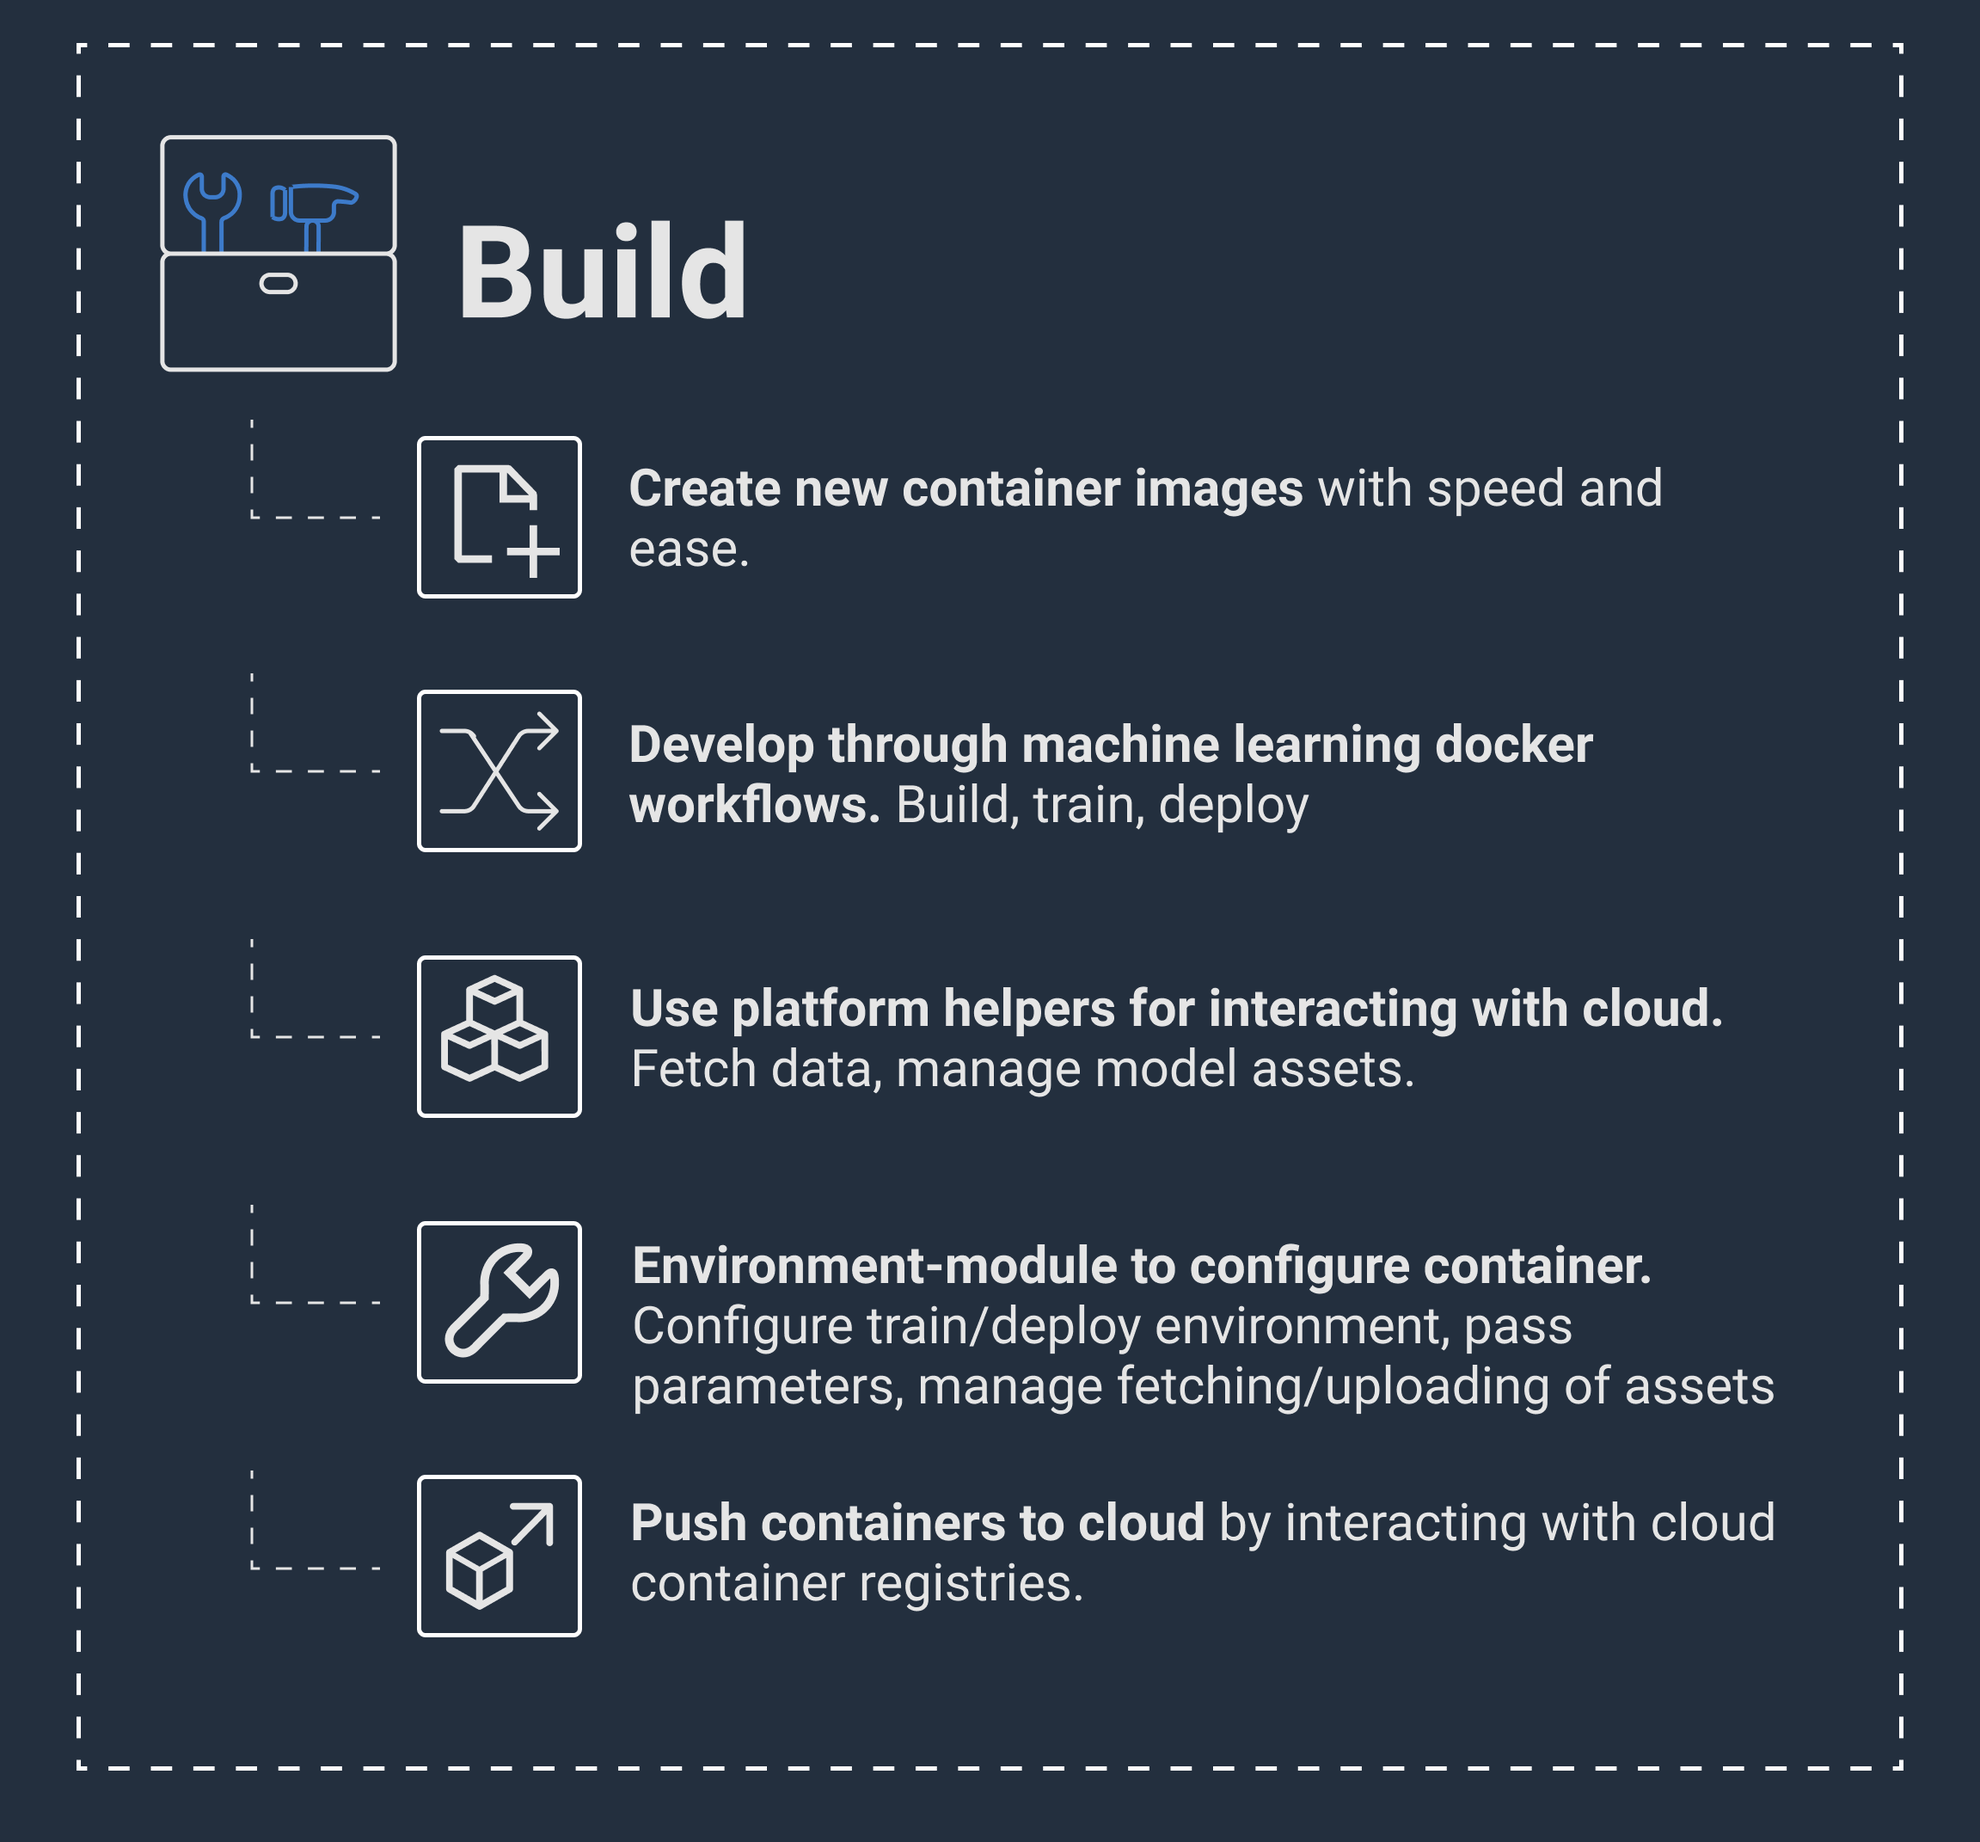
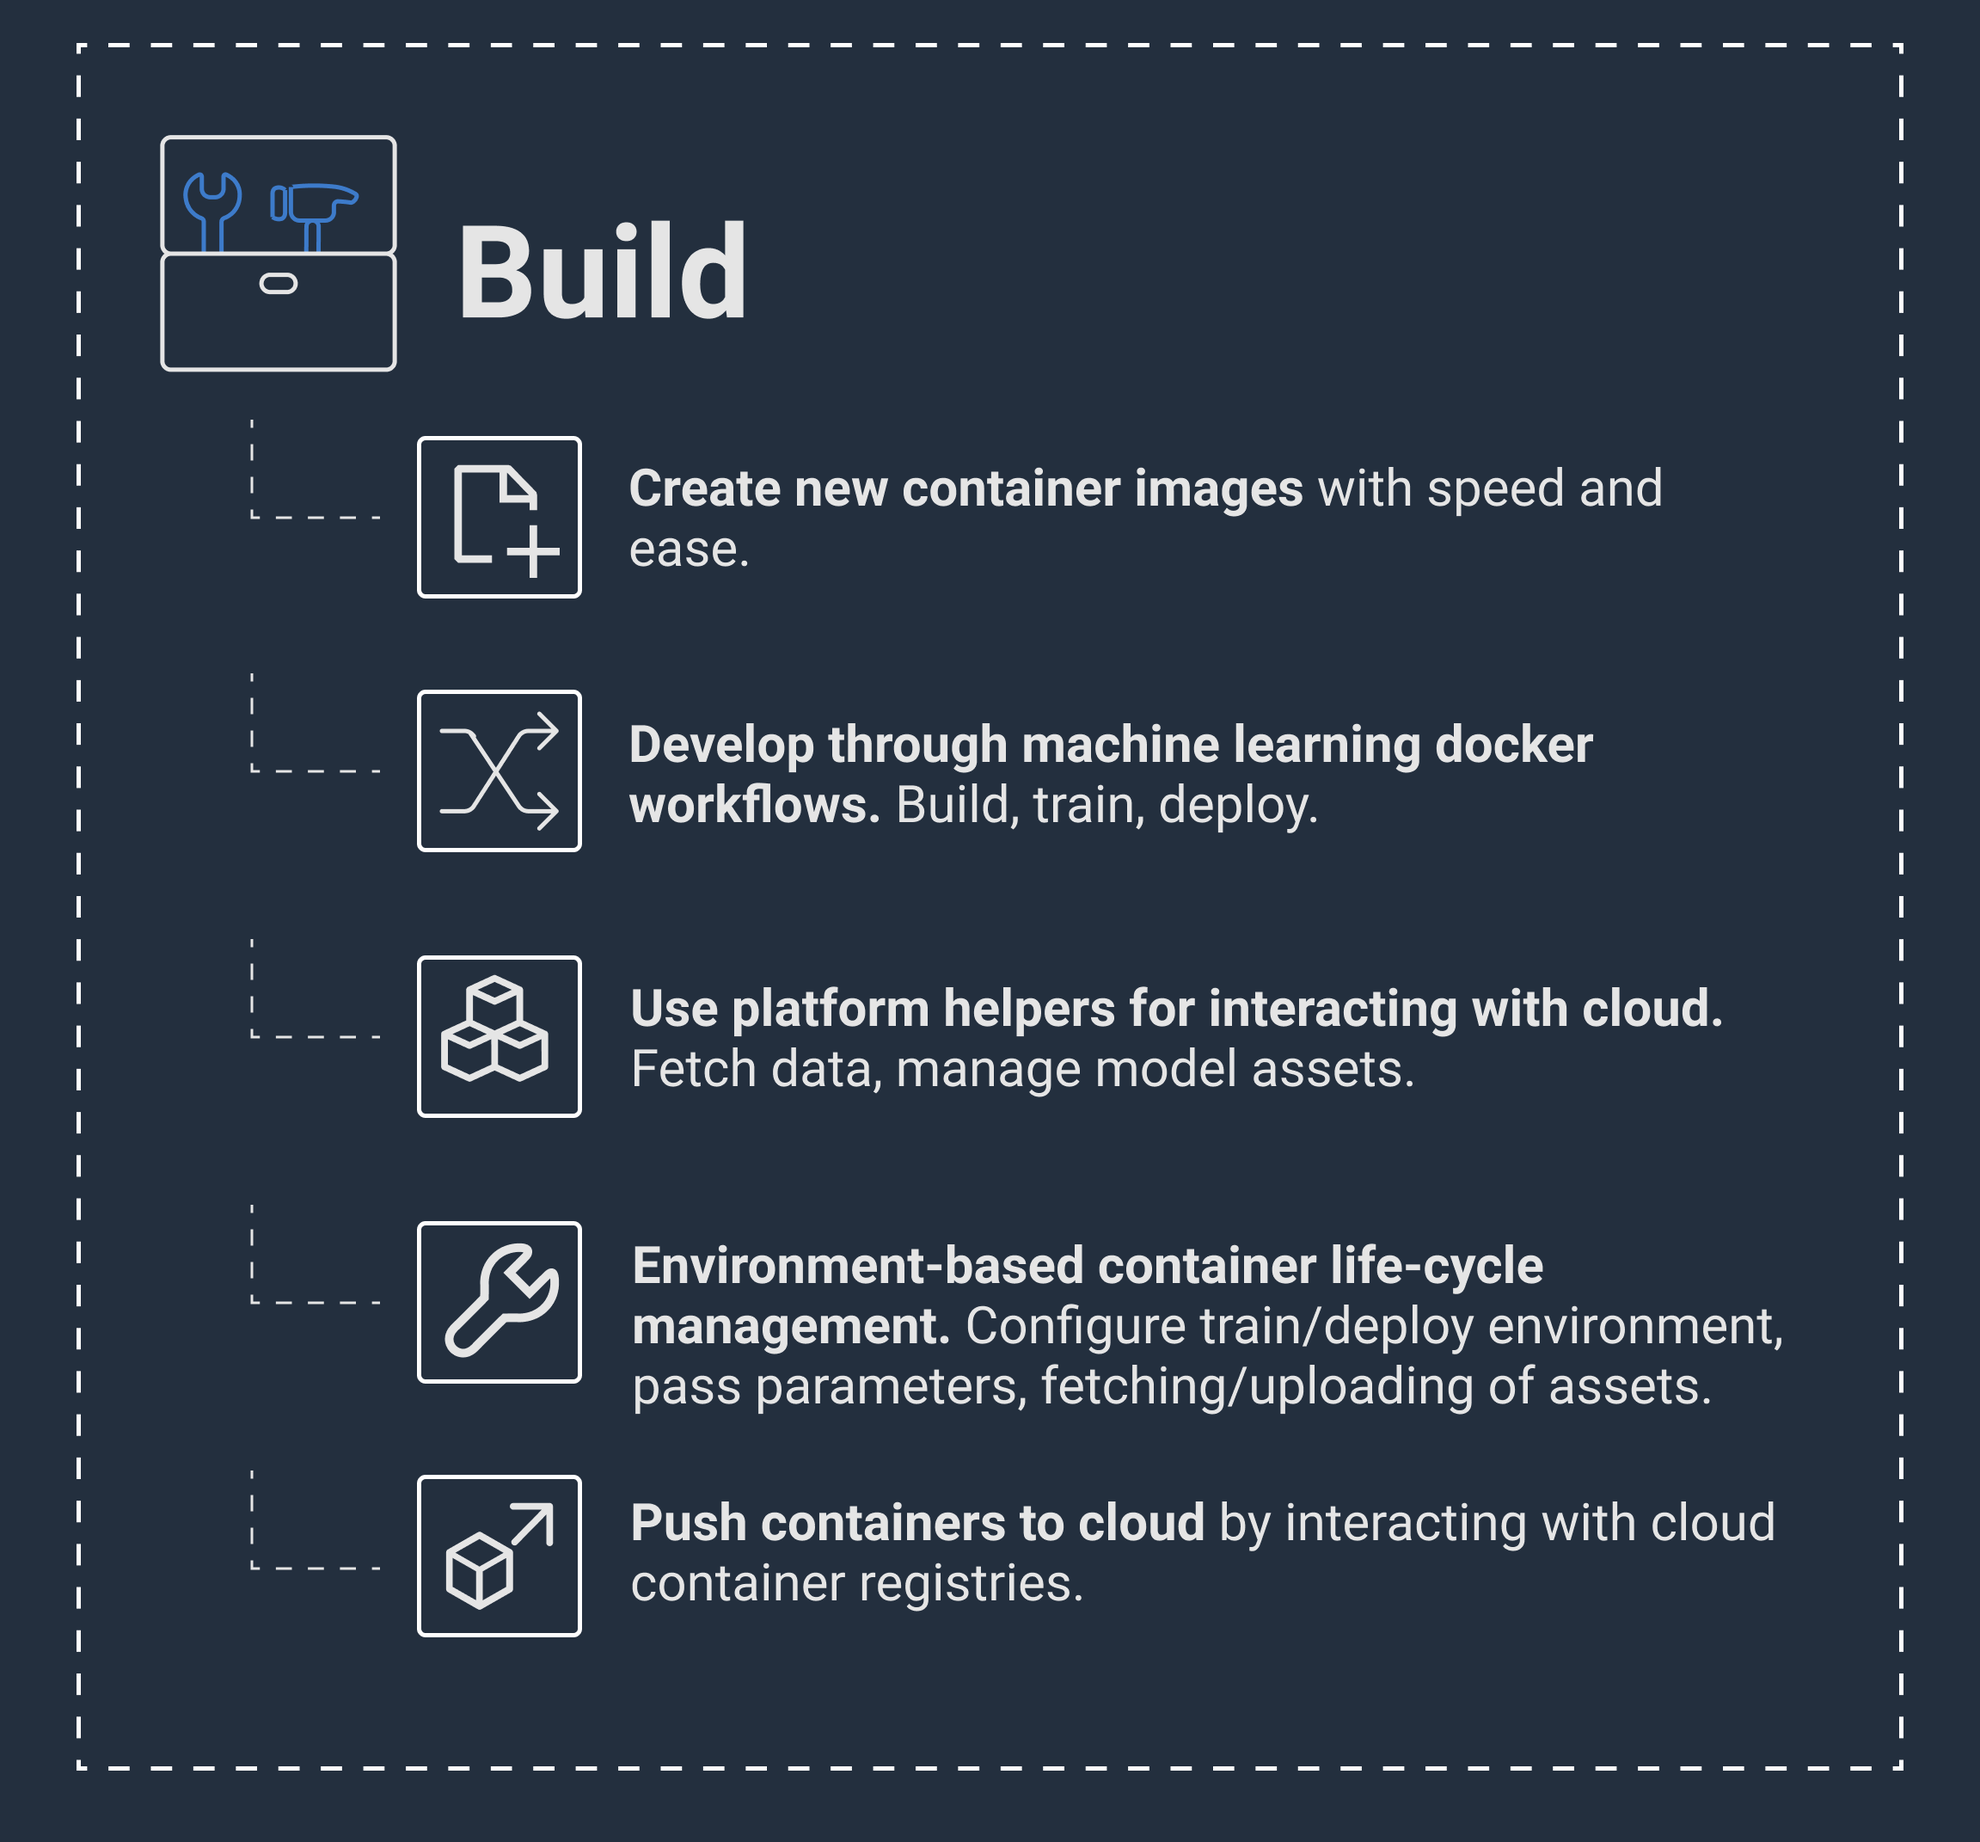
WIP: core concepts -life-cycle management

Changed region(s): [[0.3083, 0.6779, 0.8941, 0.7703]]

diff --git a/docs/.vuepress/config.js b/docs/.vuepress/config.js
@@ -57,6 +57,7 @@ module.exports = {
           children: [
             './',
             'quickStart',
+            'coreConcepts',
             'contributing'
           ]
         },

diff --git a/docs/guide/coreConcepts.md b/docs/guide/coreConcepts.md
@@ -1,0 +1,34 @@
+# Core Concepts
+
+To achieve our goal of **"build local, deploy everywhere"** we strove to provide a rich set of tooling, modules and an extensible design system that connected the desperate parts of machine learning in production. Even leveraging docker these set of tasks were tricky and naunced depending on what kind of algorithm and where we planned to deploy it.
+
+In our experience, getting machine learning to production meant solving the following challenges:
+
+1. **Provide Algorithm train/deploy scripts**.
+2. **Download/Upload ML assets** i.e. data and models.
+3. **Configure a Deployment server** to handle requests sent to the model.
+4. **Configure image for chosen cloud container service** i.e. AWS Sagemaker, Kubernetes, AzureML.
+5. **Provide method to pass parameters to the script runtime** i.e. hyperparameters, environment toggles and conditionals.
+
+![mldock-core-functions](/images/mldock-core-functions.png)
+
+## Container Life-Cycle Management
+
+Similar to how your training script describes the steps taken to train a new machine learning model, a container has life-cycle or set of steps that define when and how certain tasks should be done. A typical container life-cycle could comprise of:
+
+![mldock-container-lifecycle-management](/images/mldock-container-lifecycle-management.png)
+
+
+#### Environment-supported Life-Cycles
+
+Currently supports:
+1. `Environment()` module based life-cycle management system
+2. `Asset.py` scripted life-cycle management system
+
+##### Environment() module
+
+This uses environment variables to manage the life-cycle stages. Based on the `BaseEnvironment()` it extends it by allowing users to define specific environment variables with prefixes that can be automatically discovered at container set up.
+
+##### Asset.py script
+
+This uses python extended classes which allows user to script any additional tasks during either `startup` or `cleanup` steps which are called before your script and on final after your script execution.
